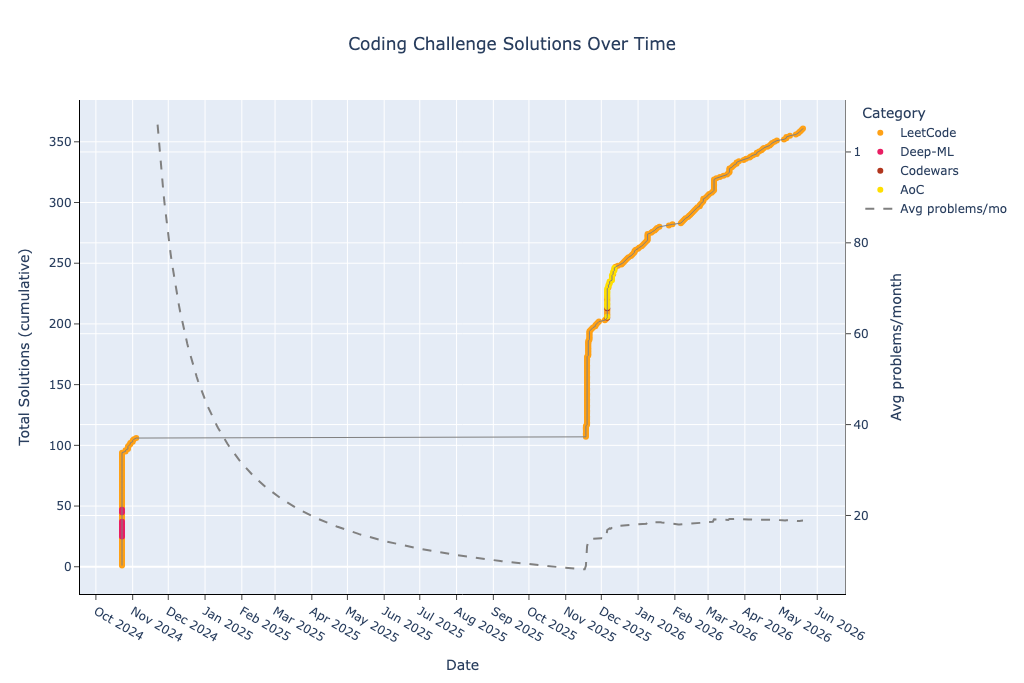
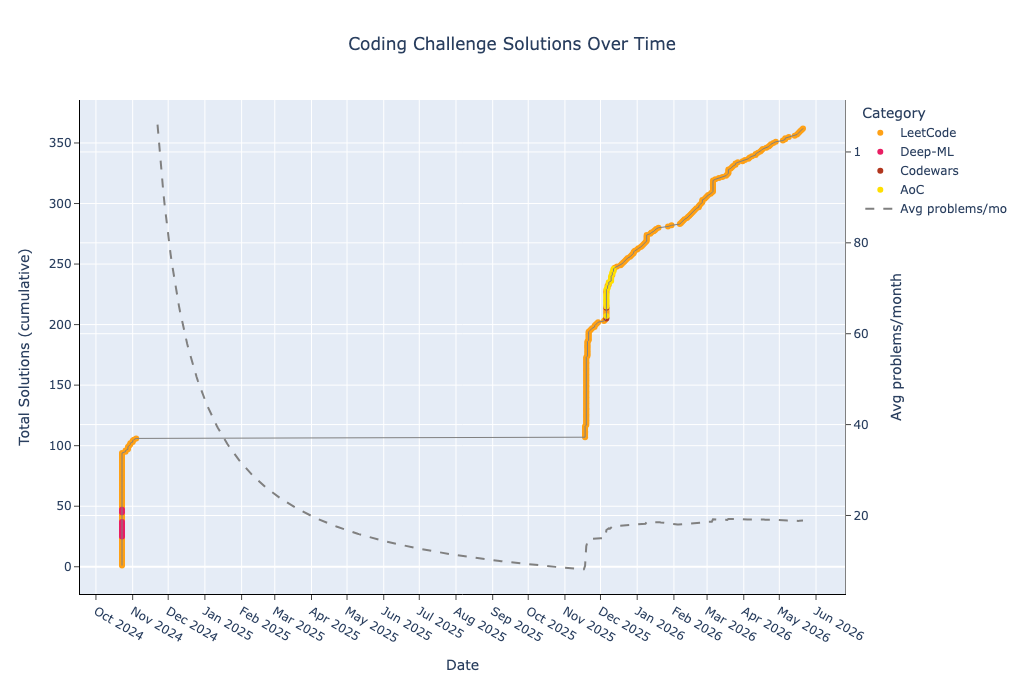
Regenerate README with LeetCode 3043

diff --git a/README.md b/README.md
@@ -36,7 +36,7 @@ This repository contains a collection of coding problems solved on various platf
 | deep-ml-easy | 9 | 72 | 8 | 10 | 0 | 2 | 13 | 0 | 0 | 0 | 12 | 3 | 0 | 0 | 0 | 0 | 0 | 0 |
 | deep-ml-medium | 5 | 69 | 13 | 5 | 0 | 1 | 7 | 0 | 0 | 0 | 8 | 2 | 0 | 0 | 0 | 0 | 0 | 0 |
 | leetcode-easy | 116 | 1903 | 16 | 158 | 6 | 155 | 146 | 42 | 4 | 14 | 192 | 4 | 4 | 14 | 1 | 0 | 11 | 0 |
-| leetcode-medium | 173 | 4525 | 26 | 305 | 5 | 461 | 334 | 102 | 20 | 39 | 377 | 6 | 37 | 53 | 11 | 25 | 23 | 7 |
+| leetcode-medium | 174 | 4556 | 26 | 307 | 5 | 464 | 338 | 102 | 21 | 39 | 380 | 6 | 37 | 55 | 11 | 25 | 23 | 7 |
 | leetcode-hard | 32 | 1002 | 31 | 58 | 4 | 91 | 77 | 21 | 8 | 15 | 74 | 3 | 7 | 12 | 8 | 3 | 9 | 9 |
 
 ## Recent Changes
@@ -47,6 +47,7 @@ Recently solved and added problems.
 
 | Date | Type | Challenge | Solution Code | Problem Link |
 | --- | --- | --- | --- | --- |
+| 2026-05-21 | LeetCode Medium | Find the Length of the Longest Common Prefix | [python](leetcode/medium/3043.%20Find%20the%20Length%20of%20the%20Longest%20Common%20Prefix.py) | [leetcode.com](https://leetcode.com/problems/find-the-length-of-the-longest-common-prefix/) |
 | 2026-05-20 | LeetCode Medium | Find the Prefix Common Array of Two Arrays | [python](leetcode/medium/2657.%20Find%20the%20Prefix%20Common%20Array%20of%20Two%20Arrays.py) | [leetcode.com](https://leetcode.com/problems/find-the-prefix-common-array-of-two-arrays/) |
 | 2026-05-19 | LeetCode Easy | Minimum Common Value | [python](leetcode/easy/2540.%20Minimum%20Common%20Value.py) | [leetcode.com](https://leetcode.com/problems/minimum-common-value/) |
 | 2026-05-18 | LeetCode Hard | Jump Game IV | [python](leetcode/hard/1345.%20Jump%20Game%20IV.py) | [leetcode.com](https://leetcode.com/problems/jump-game-iv/) |
@@ -56,7 +57,6 @@ Recently solved and added problems.
 | 2026-05-09 | LeetCode Medium | Cyclically Rotating a Grid | [python](leetcode/medium/1914.%20Cyclically%20Rotating%20a%20Grid.py) | [leetcode.com](https://leetcode.com/problems/cyclically-rotating-a-grid/) |
 | 2026-05-06 | LeetCode Medium | Check if There is a Valid Path in a Grid | [python](leetcode/medium/1391.%20Check%20if%20There%20is%20a%20Valid%20Path%20in%20a%20Grid.py) | [leetcode.com](https://leetcode.com/problems/check-if-there-is-a-valid-path-in-a-grid/) |
 | 2026-05-06 | LeetCode Medium | Rotate List | [python](leetcode/medium/61.%20Rotate%20List.py) | [leetcode.com](https://leetcode.com/problems/rotate-list/) |
-| 2026-05-04 | LeetCode Medium | Rotate Image | [python](leetcode/medium/48.%20Rotate%20Image.py) | [leetcode.com](https://leetcode.com/problems/rotate-image/) |
 # Advent of Code
 ### 2025
 | Day | Challenge | Time Complexity | Space Complexity | Solution Code | Problem Link |
@@ -416,6 +416,7 @@ Recently solved and added problems.
 | 2970 | Count the Number of Incremovable Subarrays I | O(n*n) | O(n*n) | [python](leetcode/medium/2970.%20Count%20the%20Number%20of%20Incremovable%20Subarrays%20I.py) | [leetcode.com](https://leetcode.com/problems/count-the-number-of-incremovable-subarrays-i/) |
 | 2975 | Maximum Square Area by Removing Fences From a Field | O(n) | O(1) | [python](leetcode/medium/2975.%20Maximum%20Square%20Area%20by%20Removing%20Fences%20From%20a%20Field.py) | [leetcode.com](https://leetcode.com/problems/maximum-square-area-by-removing-fences-from-a-field) |
 | 3025 | Find the Number of Ways to Place People I | O(n) | O(1) | [python](leetcode/medium/3025.%20Find%20the%20Number%20of%20Ways%20to%20Place%20People%20I.py) | [leetcode.com](https://leetcode.com/problems/find-the-number-of-ways-to-place-people-i/) |
+| 3043 | Find the Length of the Longest Common Prefix | O(n) | O(n) | [python](leetcode/medium/3043.%20Find%20the%20Length%20of%20the%20Longest%20Common%20Prefix.py) | [leetcode.com](https://leetcode.com/problems/find-the-length-of-the-longest-common-prefix/) |
 | 3047 | Find the Largest Area of Square Inside Two Rectangles | O(n) | O(1) | [python](leetcode/medium/3047.%20Find%20the%20Largest%20Area%20of%20Square%20Inside%20Two%20Rectangles.py) | [leetcode.com](https://leetcode.com/problems/find-the-largest-area-of-square-inside-two-rectangles/) |
 | 3070 | Count Submatrices with Top-Left Element and Sum Less Than k | O(n*m) | O(1) | [python](leetcode/medium/3070.%20Count%20Submatrices%20with%20Top-Left%20Element%20and%20Sum%20Less%20Than%20k.py) | [leetcode.com](https://leetcode.com/problems/count-submatrices-with-top-left-element-and-sum-less-than-k/) |
 | 3075 | Maximize Happiness of Selected Children | O(n) | O(1) | [python](leetcode/medium/3075.%20Maximize%20Happiness%20of%20Selected%20Children.py) | [leetcode.com](https://leetcode.com/problems/maximize-happiness-of-selected-children/) |

diff --git a/CHANGES.md b/CHANGES.md
@@ -6,6 +6,7 @@ Recently solved and added problems.
 
 | Date | Type | Challenge | Solution Code | Problem Link |
 | --- | --- | --- | --- | --- |
+| 2026-05-21 | LeetCode Medium | Find the Length of the Longest Common Prefix | [python](leetcode/medium/3043.%20Find%20the%20Length%20of%20the%20Longest%20Common%20Prefix.py) | [leetcode.com](https://leetcode.com/problems/find-the-length-of-the-longest-common-prefix/) |
 | 2026-05-20 | LeetCode Medium | Find the Prefix Common Array of Two Arrays | [python](leetcode/medium/2657.%20Find%20the%20Prefix%20Common%20Array%20of%20Two%20Arrays.py) | [leetcode.com](https://leetcode.com/problems/find-the-prefix-common-array-of-two-arrays/) |
 | 2026-05-19 | LeetCode Easy | Minimum Common Value | [python](leetcode/easy/2540.%20Minimum%20Common%20Value.py) | [leetcode.com](https://leetcode.com/problems/minimum-common-value/) |
 | 2026-05-18 | LeetCode Hard | Jump Game IV | [python](leetcode/hard/1345.%20Jump%20Game%20IV.py) | [leetcode.com](https://leetcode.com/problems/jump-game-iv/) |
@@ -15,4 +16,3 @@ Recently solved and added problems.
 | 2026-05-09 | LeetCode Medium | Cyclically Rotating a Grid | [python](leetcode/medium/1914.%20Cyclically%20Rotating%20a%20Grid.py) | [leetcode.com](https://leetcode.com/problems/cyclically-rotating-a-grid/) |
 | 2026-05-06 | LeetCode Medium | Check if There is a Valid Path in a Grid | [python](leetcode/medium/1391.%20Check%20if%20There%20is%20a%20Valid%20Path%20in%20a%20Grid.py) | [leetcode.com](https://leetcode.com/problems/check-if-there-is-a-valid-path-in-a-grid/) |
 | 2026-05-06 | LeetCode Medium | Rotate List | [python](leetcode/medium/61.%20Rotate%20List.py) | [leetcode.com](https://leetcode.com/problems/rotate-list/) |
-| 2026-05-04 | LeetCode Medium | Rotate Image | [python](leetcode/medium/48.%20Rotate%20Image.py) | [leetcode.com](https://leetcode.com/problems/rotate-image/) |
